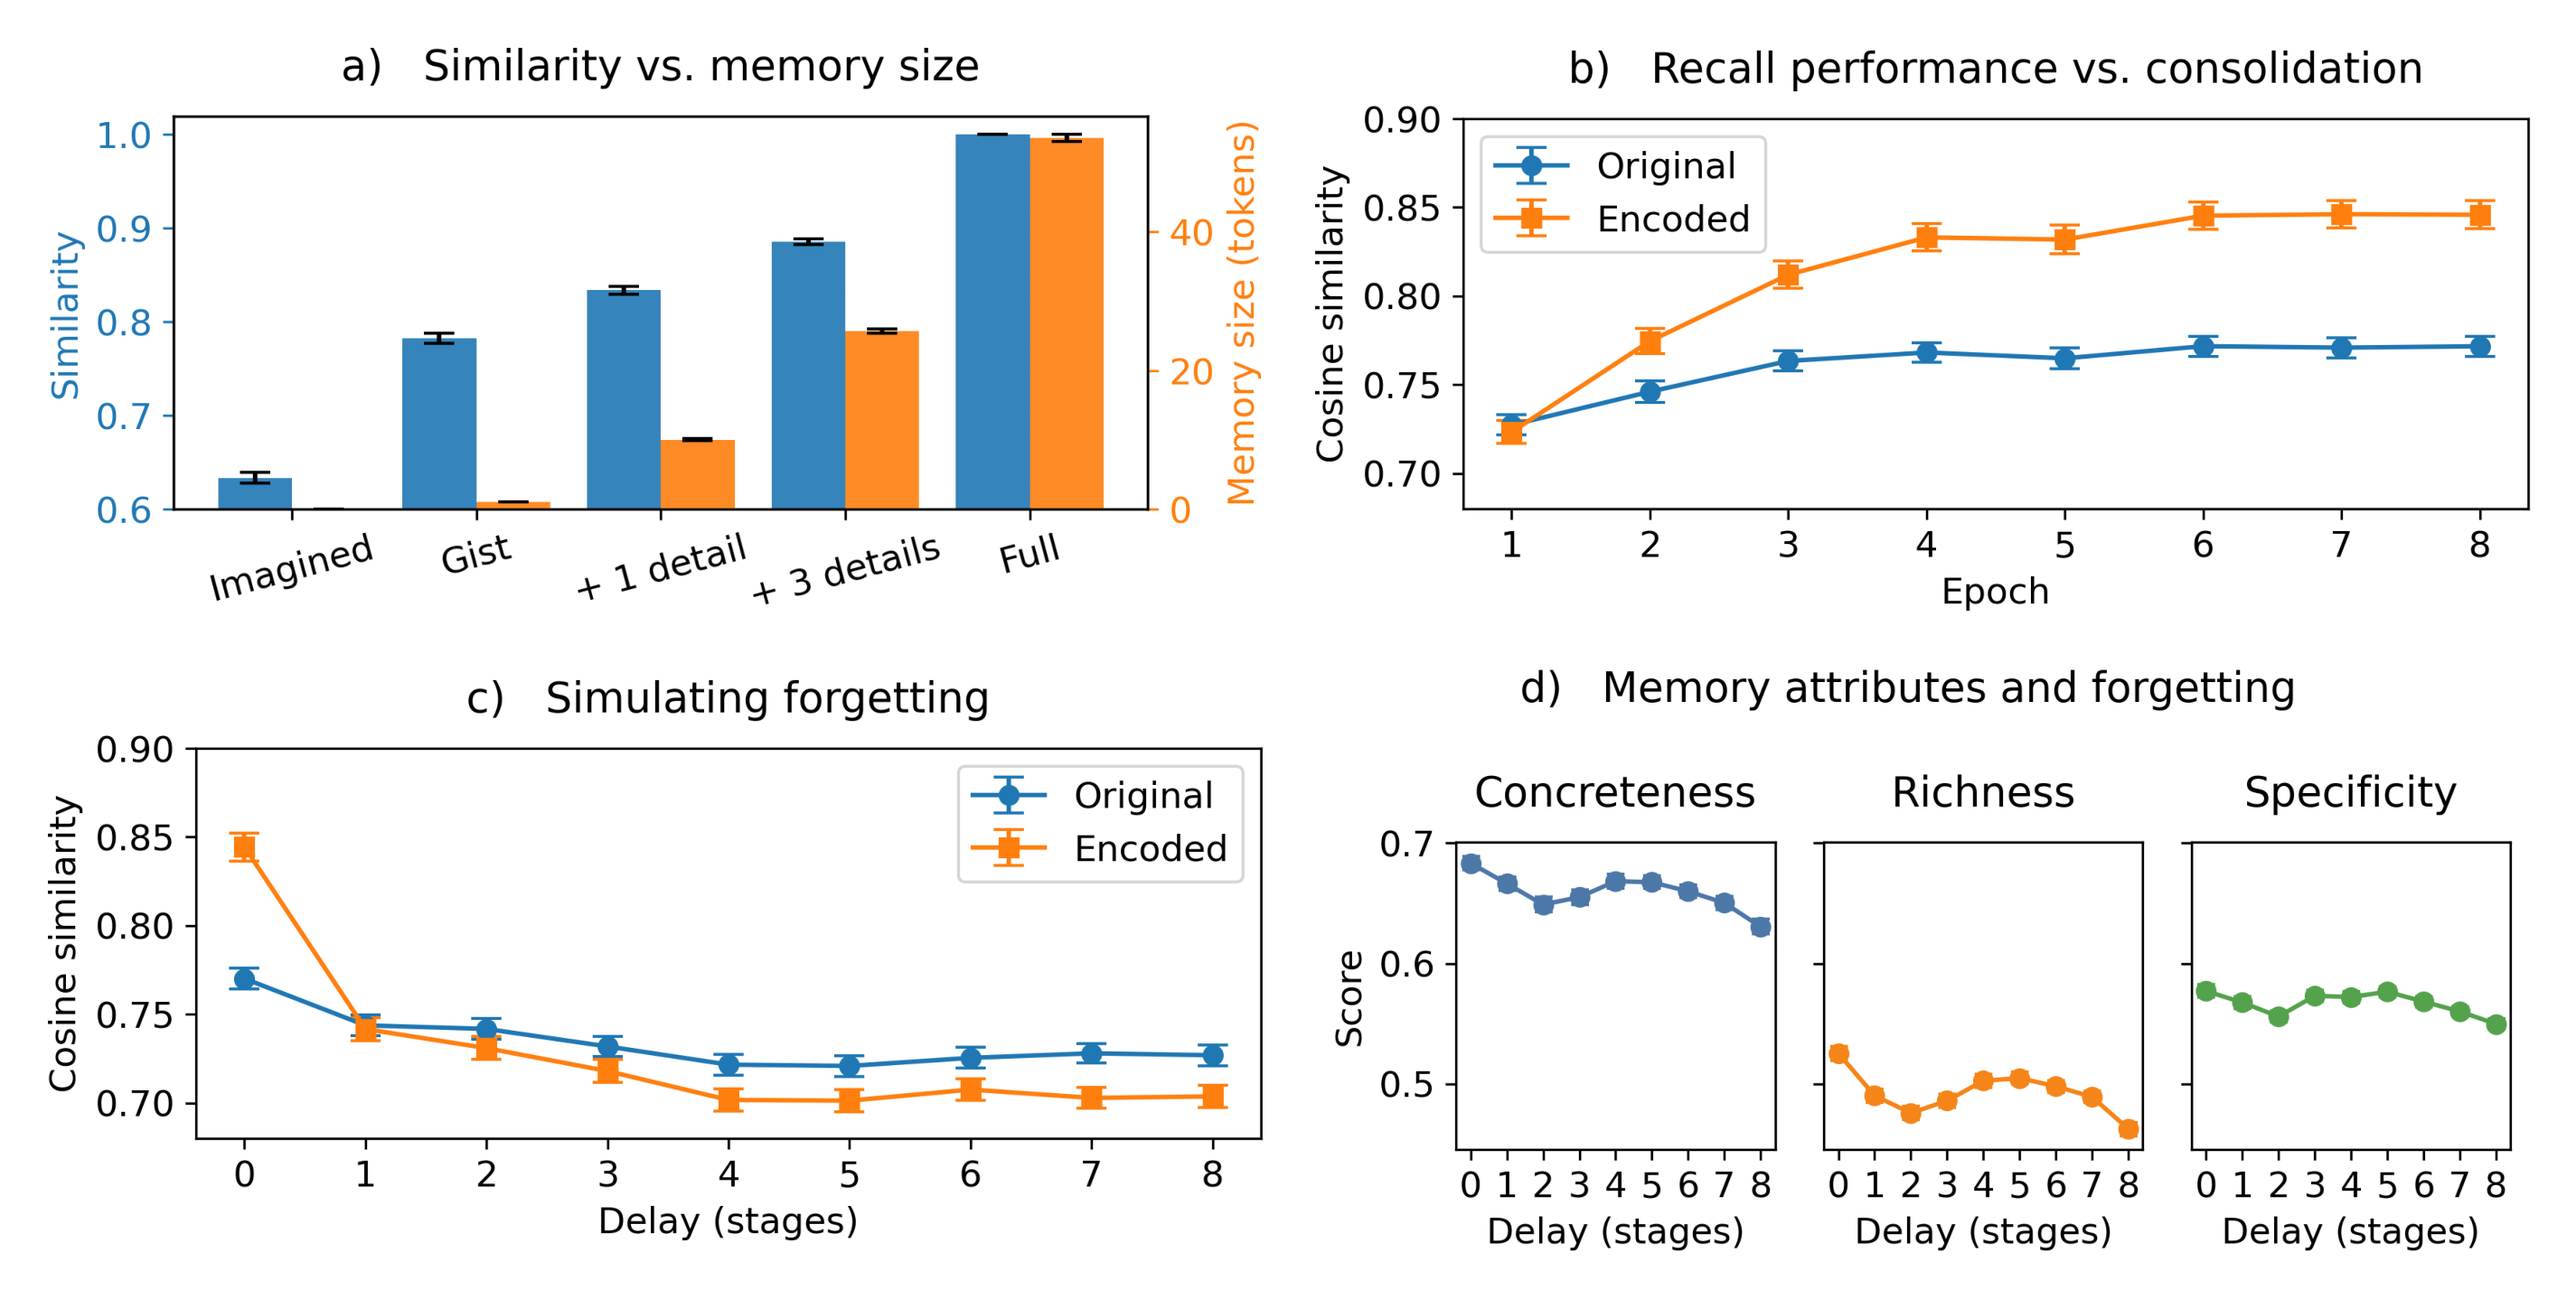
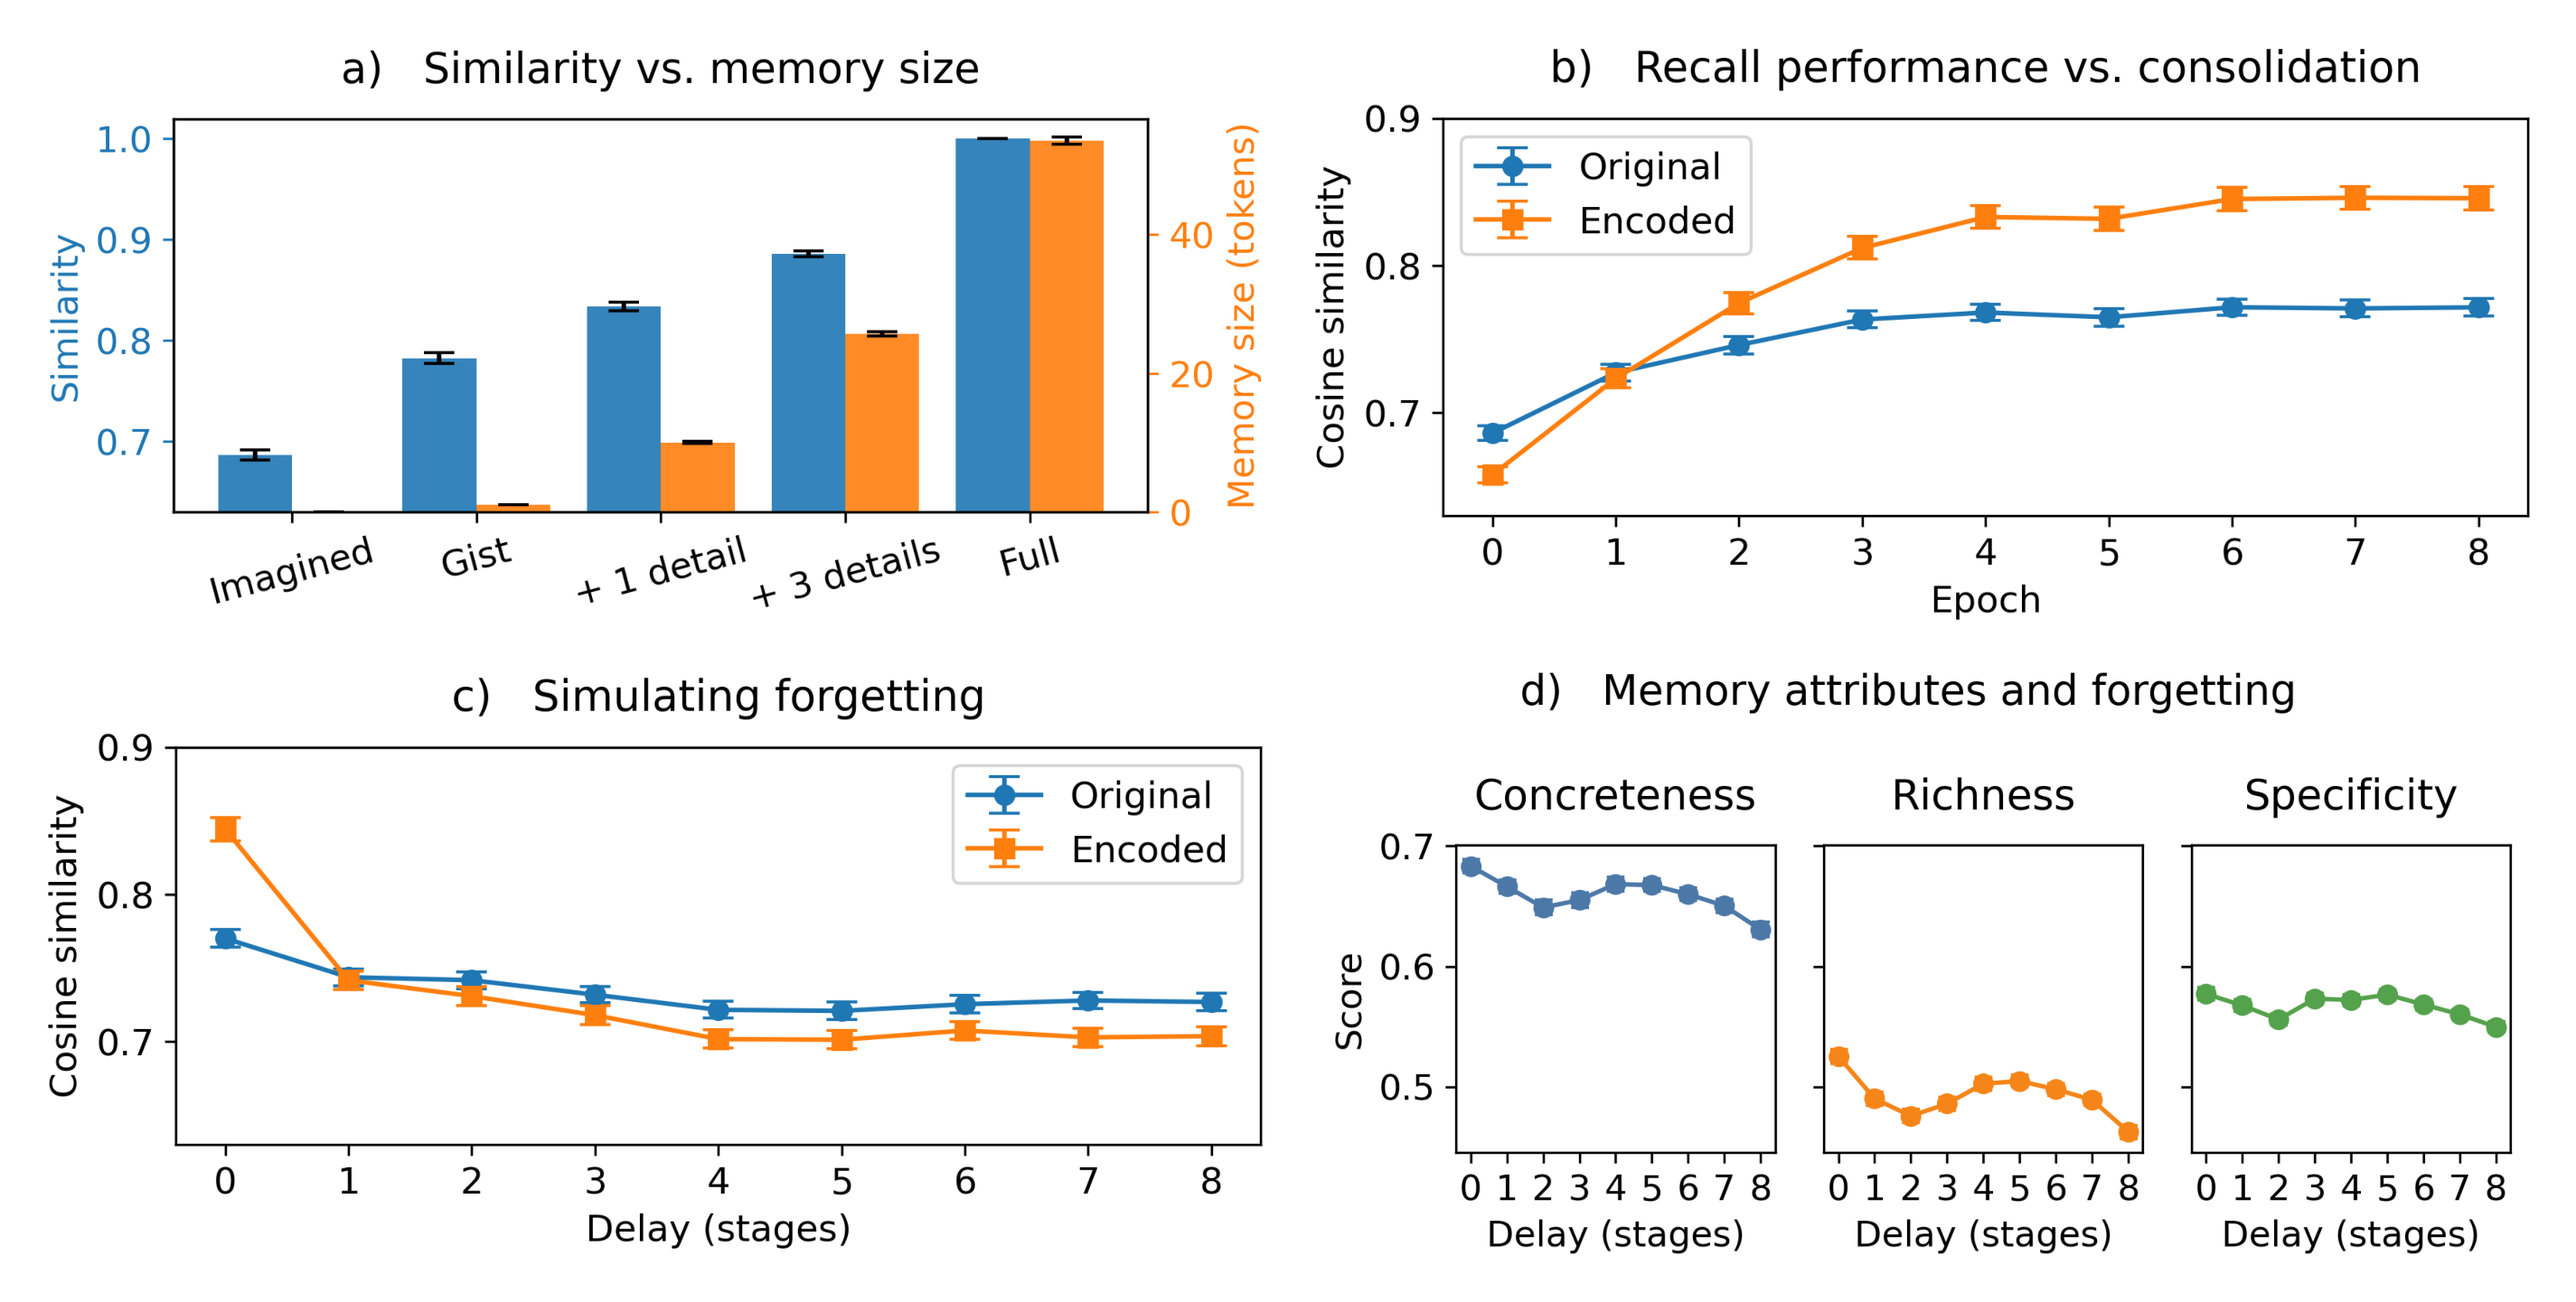
update

diff --git a/full model/create_plots_mosaic.py b/full model/create_plots_mosaic.py
@@ -41,27 +41,73 @@ Return ONLY a JSON dictionary with 3 keys, each a float 0-1:
 A higher score corresponds to more concrete, richer in detail, or more specific text."""
 
 
-def plot_consolidation(con: Dict, outdir: Path) -> None:
+# def plot_consolidation(con: Dict, outdir: Path) -> None:
+#     con["epoch_dist_orig"] = [[1 - v for v in d] for d in con["epoch_dist_orig"]]
+#     con["epoch_dist_enc"]  = [[1 - v for v in d] for d in con["epoch_dist_enc"]]
+    
+#     epochs = np.arange(1, len(con["epoch_dist_orig"]) + 1)
+#     mu_o   = [np.mean(d) for d in con["epoch_dist_orig"]]
+#     se_o   = [sem(d)     for d in con["epoch_dist_orig"]]
+#     mu_e   = [np.mean(d) for d in con["epoch_dist_enc"]]
+#     se_e   = [sem(d)     for d in con["epoch_dist_enc"]]
+
+#     plt.figure(figsize=(6, 3))
+#     plt.errorbar(epochs[0:8], mu_o[0:8], yerr=se_o[0:8], marker="o", label="Original", capsize=5)
+#     plt.errorbar(epochs[0:8], mu_e[0:8], yerr=se_e[0:8], marker="s", label="Encoded", capsize=5)
+#     plt.xlabel("Epoch"); plt.ylabel("Cosine similarity")
+#     plt.title("b)   Recall performance vs. consolidation", pad=12)
+#     plt.ylim(0.68, 0.9)
+#     plt.legend()
+#     plt.tight_layout()
+#     plt.savefig(outdir / "recall_drift_posthoc.png", dpi=300, bbox_inches="tight")
+#     plt.close()
+
+def plot_consolidation(con: dict, outdir: Path) -> None:
     con["epoch_dist_orig"] = [[1 - v for v in d] for d in con["epoch_dist_orig"]]
     con["epoch_dist_enc"]  = [[1 - v for v in d] for d in con["epoch_dist_enc"]]
-    
-    epochs = np.arange(1, len(con["epoch_dist_orig"]) + 1)
-    mu_o   = [np.mean(d) for d in con["epoch_dist_orig"]]
-    se_o   = [sem(d)     for d in con["epoch_dist_orig"]]
-    mu_e   = [np.mean(d) for d in con["epoch_dist_enc"]]
-    se_e   = [sem(d)     for d in con["epoch_dist_enc"]]
 
+    data_dir  = outdir.parent / "data"
+    enc_path  = data_dir / "recalled_stories.pkl"
+    try:
+        enc = pickle.load(open(enc_path, "rb"))
+        imag      = enc["recalled_stories"]["imagined"]     # before training
+        originals = enc["recalled_stories"]["full"]         # ground‑truth
+        encoded   = enc["recalled_stories"][0]              # gist that Mistral trains on
+
+        embedder  = SentenceTransformer("all-MiniLM-L6-v2")
+        cos       = lambda a, b: 1 - cos_dist(a, b)
+
+        sim_o0 = [cos(embedder.encode(i), embedder.encode(o))
+                  for i, o in zip(imag, originals)]
+        sim_e0 = [cos(embedder.encode(i), embedder.encode(g))
+                  for i, g in zip(imag, encoded)]
+
+        mu_o = [np.mean(sim_o0)] + [np.mean(d) for d in con["epoch_dist_orig"]]
+        se_o = [sem(sim_o0)]     + [sem(d)     for d in con["epoch_dist_orig"]]
+        mu_e = [np.mean(sim_e0)] + [np.mean(d) for d in con["epoch_dist_enc"]]
+        se_e = [sem(sim_e0)]     + [sem(d)     for d in con["epoch_dist_enc"]]
+    except FileNotFoundError:
+        # fallback: keep the original behaviour
+        mu_o = [np.mean(d) for d in con["epoch_dist_orig"]]
+        se_o = [sem(d)     for d in con["epoch_dist_orig"]]
+        mu_e = [np.mean(d) for d in con["epoch_dist_enc"]]
+        se_e = [sem(d)     for d in con["epoch_dist_enc"]]
+
+    # ── 3. plot, labelling the new first point as epoch 0 ────────────────────
+    epochs = np.arange(0, len(mu_o))
     plt.figure(figsize=(6, 3))
-    plt.errorbar(epochs[0:8], mu_o[0:8], yerr=se_o[0:8], marker="o", label="Original", capsize=5)
-    plt.errorbar(epochs[0:8], mu_e[0:8], yerr=se_e[0:8], marker="s", label="Encoded", capsize=5)
-    plt.xlabel("Epoch"); plt.ylabel("Cosine similarity")
+    plt.errorbar(epochs[:9], mu_o[:9], yerr=se_o[:9],
+                 marker="o", label="Original", capsize=5)
+    plt.errorbar(epochs[:9], mu_e[:9], yerr=se_e[:9],
+                 marker="s", label="Encoded", capsize=5)
+    plt.xlabel("Epoch")
+    plt.ylabel("Cosine similarity")
     plt.title("b)   Recall performance vs. consolidation", pad=12)
-    plt.ylim(0.68, 0.9)
+    plt.ylim(0.63, 0.9)
     plt.legend()
     plt.tight_layout()
     plt.savefig(outdir / "recall_drift_posthoc.png", dpi=300, bbox_inches="tight")
     plt.close()
-
 
 def plot_similarity_memory(enc: Dict, originals: List[str],
                            tokenizer_name: str, outdir: Path) -> None:
@@ -100,7 +146,7 @@ def plot_similarity_memory(enc: Dict, originals: List[str],
             color=sim_color, alpha=.9, capsize=5)
     ax1.set_ylabel("Similarity", color=sim_color)
     ax1.tick_params(axis='y', colors=sim_color)
-    ax1.set_ylim(0.6, 1.02)
+    ax1.set_ylim(0.63, 1.02)
 
     ax2 = ax1.twinx()
     ax2.bar(x + width/2, mean_mem, width, yerr=err_mem,
@@ -181,7 +227,7 @@ def plot_forgetting(forg: Dict, outdir: Path) -> None:
     plt.ylabel("Cosine similarity")
     plt.title("c)   Simulating forgetting", pad=12)
     plt.legend()
-    plt.ylim(0.68, 0.9)
+    plt.ylim(0.63, 0.9)
     plt.tight_layout()
     plt.savefig(outdir / "forgetting_curve_posthoc.png",
                 dpi=300, bbox_inches="tight")
